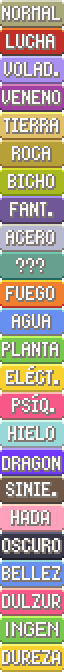
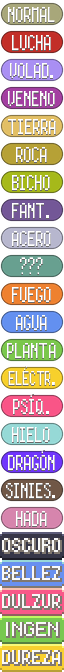
UI de combate: ficha de ataque sobre los botones, insignias HD de tipo y estado

diff --git a/tools/ui/gen_oniria_noir.py b/tools/ui/gen_oniria_noir.py
@@ -120,6 +120,45 @@ def safari_retone():
 def fill_color(v):
     t = max(0.0, min(1.0, (v - 150) / 80.0)); return lerp(OBS_BOT, OBS_TOP, t)
 
+# ------------------------------------------------------------------ insignias HD (tipos y estados)
+TYPE_LABEL = ["NORMAL","LUCHA","VOLAD.","VENENO","TIERRA","ROCA","BICHO","FANT.","ACERO","???",
+              "FUEGO","AGUA","PLANTA","ELÉCTR.","PSÍQ.","HIELO","DRAGÓN","SINIES.","HADA"]
+
+def pill(w, h, col, text, size, fx=0, fy=0, fw=None, fh=None):
+    """Píldora plana: relleno del color canónico, micro-borde más oscuro, texto blanco con sombra."""
+    S = 4                                              # supersampling para bordes suaves
+    fw = fw or w; fh = fh or h
+    big = Image.new("RGBA", (w * S, h * S), (0, 0, 0, 0)); d = ImageDraw.Draw(big)
+    dark = tuple(int(c * 0.55) for c in col[:3]) + (255,)
+    box = (fx * S, fy * S, (fx + fw) * S - 1, (fy + fh) * S - 1)
+    d.rounded_rectangle(box, radius=(fh * S) // 2 if fh <= 24 else 5 * S, fill=dark)
+    d.rounded_rectangle((box[0] + S, box[1] + S, box[2] - S, box[3] - S), radius=max(fh * S // 2 - S, 2), fill=col)
+    im = big.resize((w, h), Image.LANCZOS)
+    f = ImageFont.truetype(FONT, size); dd = ImageDraw.Draw(im)
+    while dd.textlength(text, font=f) > fw - 8 and size > 10:
+        size -= 1; f = ImageFont.truetype(FONT, size)
+    hb = dd.textbbox((0, 0), "H", font=f); tb = dd.textbbox((0, 0), text, font=f)
+    tx = fx + (fw - (tb[2] - tb[0])) / 2 - tb[0]; ty = fy + (fh - (hb[3] - hb[1])) / 2 - hb[1]
+    tx, ty = int(round(tx)), int(round(ty))
+    dd.text((tx, ty + 1), text, font=f, fill=(0, 0, 0, 150))      # sombra suave
+    dd.text((tx, ty), text, font=f, fill=(255, 255, 255, 255))
+    return im
+
+def make_types():
+    sheet = src("types").copy()                       # conserva las filas extra (19..23) del original
+    sheet.paste((0, 0, 0, 0), (0, 0, 64, 28 * 19))
+    for t in range(19):
+        sheet.paste(pill(64, 28, TYPE_COL[t], TYPE_LABEL[t], 21, 1, 3, 62, 22), (0, 28 * t))
+    save(sheet, "types")
+
+def make_statuses():
+    cols = ["7A8594", "A24BC4", "F0592A", "F2B01E", "29B6E8"]      # dormido, envenenado, quemado, paralizado, congelado
+    names = ["DOR", "ENV", "QUE", "PAR", "CON"]
+    sheet = Image.new("RGBA", (44, 80), (0, 0, 0, 0))
+    for i in range(5):
+        sheet.paste(pill(44, 16, hexc(cols[i]), names[i], 17, 1, 1, 42, 14), (0, 16 * i))
+    save(sheet, "battleStatuses")
+
 # ------------------------------------------------------------------ barras
 def bar_base(w, h, accent=SILVER):
     im = Image.new("RGBA", (w, h), (0, 0, 0, 0)); d = ImageDraw.Draw(im)
@@ -231,4 +270,4 @@ if __name__ == "__main__":
     databox("battlePlayerBoxS", "player", "S"); databox("battlePlayerBoxD", "player", "D")
     safari_retone()
     make_command(); make_message(); make_fight()
-    make_command_buttons(); make_fight_buttons(); make_move_info()
+    make_command_buttons(); make_fight_buttons(); make_move_info(); make_types(); make_statuses()

diff --git a/tools/scripts_dump/rem_ui.rb b/tools/scripts_dump/rem_ui.rb
@@ -330,13 +330,13 @@ class PokeBattle_Scene
   def pbRemMoveInfo(move)
     vp=Viewport.new(0,0,Graphics.width,Graphics.height); vp.z=99999
     sp=BitmapSprite.new(320,132,vp)
-    sp.x=8; sp.y=Graphics.height-132-3
+    sp.x=8; sp.y=Graphics.height-96-132-4   # justo sobre el panel de botones de ataque
     bmp=sp.bitmap
     card=AnimatedBitmap.new("Graphics/Pictures/battleMoveInfo")
     bmp.blt(0,0,card.bitmap,Rect.new(0,0,320,132))
     card.dispose
     types=AnimatedBitmap.new(_INTL("Graphics/Pictures/types"))
-    bmp.stretch_blt(Rect.new(252,2,58,24),types.bitmap,Rect.new(0,move.type*28,64,28))
+    bmp.blt(250,0,types.bitmap,Rect.new(0,move.type*28,64,28))
     types.dispose
     cat=move.pbIsStatus? ? _INTL("Estado") : (move.pbIsPhysical?(move.type) ? _INTL("Físico") : _INTL("Especial"))
     pw=move.basedamage>0 ? move.basedamage.to_s : "—"
@@ -346,11 +346,11 @@ class PokeBattle_Scene
     bmp.font.size=24
     pbDrawTextPositions(bmp,[[move.name,12,0,0,base,shadow]])
     vals=[cat,pw,ac,_INTL("{1}/{2}",move.pp,move.totalpp)]
-    pbDrawTextPositions(bmp,(0...4).map{|i| [vals[i],40+i*80,41,2,base,shadow]})
-    bmp.font.size=17
+    pbDrawTextPositions(bmp,(0...4).map{|i| [vals[i],40+i*80,43,2,base,shadow]})
+    bmp.font.size=15
     labels=[_INTL("Categoría"),_INTL("Potencia"),_INTL("Precisión"),_INTL("PP")]
-    pbDrawTextPositions(bmp,(0...4).map{|i| [labels[i],40+i*80,28,2,dim,shadow]})
-    bmp.font.size=20
+    pbDrawTextPositions(bmp,(0...4).map{|i| [labels[i],40+i*80,30,2,dim,shadow]})
+    bmp.font.size=18
     lines=REM_UI.wrap(bmp,pbGetMessage(MessageTypes::MoveDescriptions,move.id),296)
     if lines.length>3
       lines=lines[0,3]
@@ -358,7 +358,7 @@ class PokeBattle_Scene
     end
     textpos=[]
     for i in 0...lines.length
-      textpos.push([lines[i],12,69+i*19,0,base,shadow])
+      textpos.push([lines[i],12,70+i*19,0,base,shadow])
     end
     pbDrawTextPositions(bmp,textpos)
     loop do
